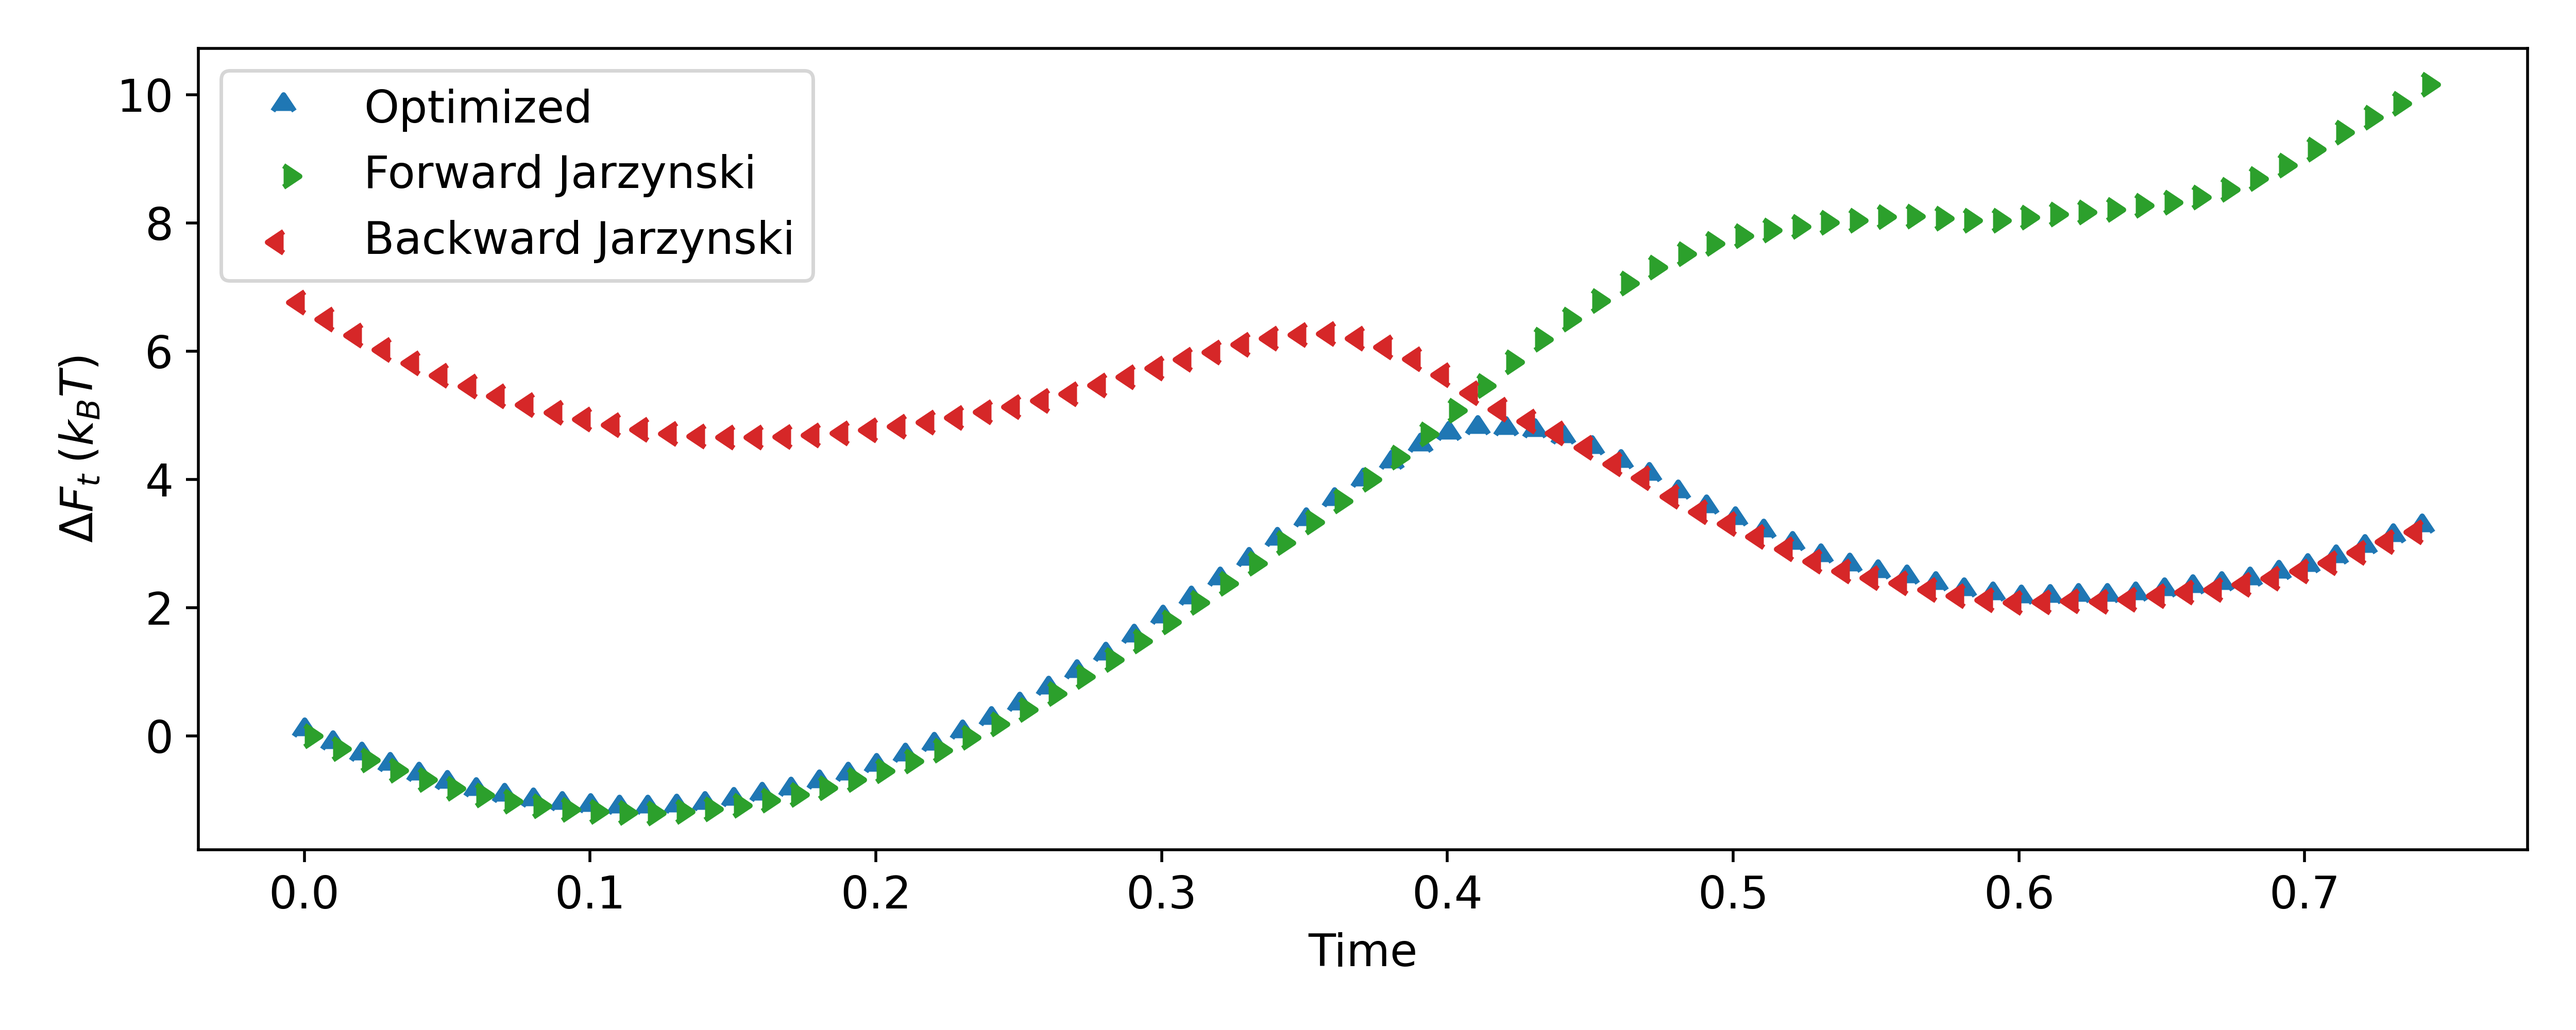
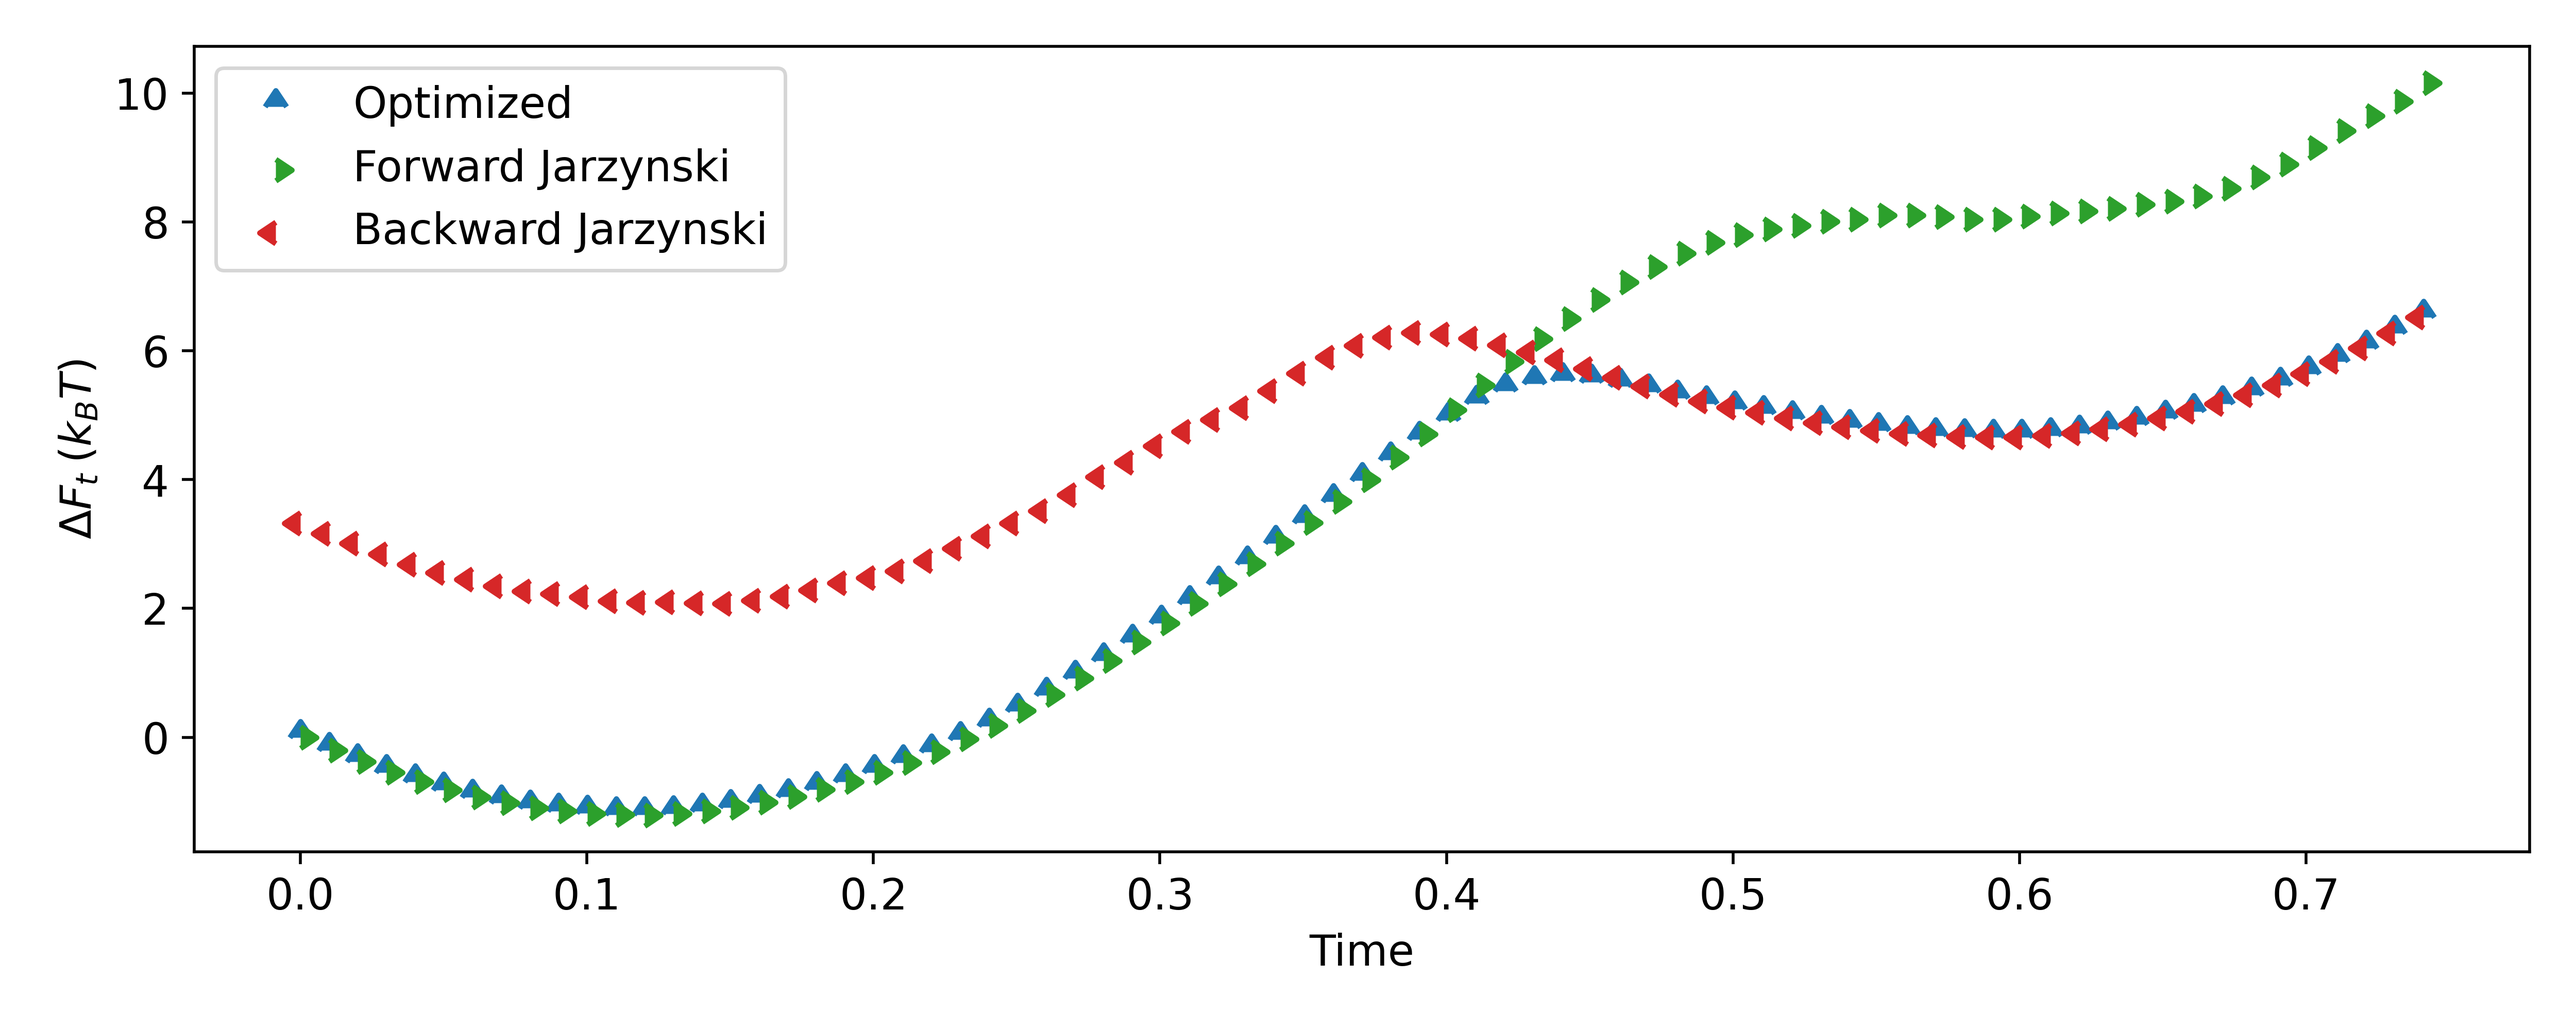
Code update for Figure1 and Figure2
Plot of Hamiltonian evolution
Analysis code correction for the correct computation of ΔF(t) and PMF(z)

diff --git a/analysis.py b/analysis.py
@@ -2,13 +2,14 @@ import numpy as np
 import matplotlib.pyplot as plt
 import os
 from scipy.optimize import newton
-plt.rcParams.update({'font.size': 12.5})
+from tqdm import tqdm
+plt.rcParams.update({'font.size': 12})
 
 folder = 'res/working/'
 ext = '.dat'
 show = False
-do_computation_PMF = False
-save_pics = False
+do_computation_PMF = True
+save_pics = True
 beta = 1.
 N = 500
 n_F = n_R = N
@@ -34,21 +35,21 @@ def Bidirectional_Method(ΔF, W_F_t, W_B_t, W_F, W_B):
     return -np.log(np.mean(np.exp(-W_F_t)/(1.+np.exp(-(W_F-ΔF)))) + np.mean(np.exp(-(W_B_t+ΔF))/(1.+np.exp(-(W_B+ΔF)))))
 
 W_f = np.loadtxt(folder + 'FORWARD_' + f'Work' + ext)
-W_b = np.loadtxt(folder + 'BACKWARD_' + f'Work' + ext)
+W_b = np.loadtxt(folder + 'BACKWARD_' + f'Work' + ext)[::-1]
 
-Work = (np.mean(W_f[-1, :]) + np.mean(W_b[-1, :]))/2
+Work = (np.mean(W_f[-1, :]) + np.mean(W_b[0, :]))/2
 print(f'Work = {Work}')
 
 print(f'Var W_f = {np.var(W_f[-1, :])}\nmean = {np.mean(W_f[-1, :])}\nmean(exp) = {np.mean(np.exp(-W_f[-1, :]))}')
-print(f'Var W_b = {np.var(W_b[-1, :])}\nmean = {np.mean(W_b[-1, :])},\nmean(exp) = {np.mean(np.exp(-W_b[-1, :]))}')
+print(f'Var W_b = {np.var(W_b[0, :])}\nmean = {np.mean(W_b[0, :])},\nmean(exp) = {np.mean(np.exp(-W_b[0, :]))}')
 
 tot_work_F = W_f[-1, :]
-tot_work_B = W_b[-1, :]
+tot_work_B = W_b[0, :]
 
 ΔF = newton(f, x0=5, args=(tot_work_F, tot_work_B), maxiter=1000)
 print(f'At time τ: BAR method outputs ΔF = {ΔF}')
 
-Delta_F_t = np.array([Bidirectional_Method(ΔF, W_f[t, :], W_b[t, :], tot_work_F.mean(), tot_work_B.mean()) for t in range(tot_records)])
+Delta_F_t = np.array([Bidirectional_Method(ΔF, W_f[t, :], W_b[t, :], tot_work_F, tot_work_B) for t in range(tot_records)])
 
 if show:
     nf, bins_f = np.histogram(tot_work_F, density=True, bins=30)
@@ -70,8 +71,11 @@ if show:
     plt.show()
 
 Jarz_eq_f = -np.log(np.mean(np.exp(-W_f), axis=1))
-Jarz_eq_b = -np.log(np.mean(np.exp(-W_b), axis=1)) + ΔF                                                                                                                                                                                                                                                                                                                                                                                                                                                                                                                                                   
+Jarz_eq_b = -np.log(np.mean(np.exp(-W_b), axis=1)) + ΔF
 
+#####################
+### Plot FIGURE 1 ###
+#####################
 
 time_steps = 10
 plt.figure(figsize=(10, 4))
@@ -87,7 +91,8 @@ plt.ylabel(r'$\Delta F_t\: (k_B T)$')
 plt.tight_layout()
 if save_pics:
     plt.savefig('imgs/Figure1.png', dpi=500, transparent=True)
-plt.show()
+    print('Figure1.png saved!')
+plt.show(block=False)
 
 
 
@@ -104,6 +109,7 @@ def V_t(z, z_t):
 def Hamiltonian(z, z_t):
     return H0(z) + V_t(z, z_t)
 
+W_b = W_b[::-1] # reset sorting
 
 z_t_forw = np.linspace(-1.5, 1.5, tot_records)#.tolist() + [1.5]
 z_t_back = np.linspace(1.5, -1.5, tot_records)#.tolist() + [-1.5]
@@ -112,7 +118,7 @@ rho0_f = np.zeros(z_t_forw.shape)
 rho0_b = np.zeros(z_t_back.shape)
 
 data_f = np.loadtxt(folder + 'FORWARD_data.dat')[1:, :]
-data_b = np.loadtxt(folder + 'BACKWARD_data.dat')[1:, :]
+data_b = np.loadtxt(folder + 'BACKWARD_data.dat')[1:, :][::-1, :]
 
 average_W_f = np.mean(W_f, axis=1)
 average_W_b = np.mean(W_b, axis=1)
@@ -127,33 +133,38 @@ pmf_b = np.zeros(num_bins)
 pmf_good = np.zeros(num_bins)
 delta = (lambda_max - lambda_min) / num_bins
 
+
 if not os.path.exists(folder + 'PMF_F.dat') or do_computation_PMF:
 
-    for i in range(num_bins):
+    for i in tqdm(range(num_bins), colour='green'):
         lambda_i = lambda_bins[i]
         # lambda_i_b = lambda_bins[num_bins-1-i]
         num, num_b, num_good_F, num_good_B = 0, 0, 0, 0
         den, den_b, den_good = 0, 0, 0
         for tt in range(tot_records):
             nf, bins_f = np.histogram(data_f[tt, :], density=True)
+            # _, n_workf = np.histogram(W_f[tt, :], density=True)
             real_bins_f = (bins_f[:-1]+bins_f[1:])/2
             mask_f = np.logical_and(real_bins_f >= lambda_i - delta/2, real_bins_f < lambda_i + delta/2)
             distrib_f = nf[mask_f]
-            
+            # work_f = ((n_workf[:-1]+n_workf[1:])/2)[mask_f]
+
             if sum(mask_f) > 0:
-                num += distrib_f*np.exp(-average_W_f[tt]) * np.exp(Jarz_eq_f[tt])
-                num_good_F += (distrib_f*np.exp(-average_W_f[tt])/(1.+np.exp(ΔF-average_W_f[-1])))*np.exp(Delta_F_t[tt])
+                num += np.mean(distrib_f*np.exp(-W_f[tt])) * np.exp(Jarz_eq_f[tt])
+                num_good_F += np.mean(distrib_f*np.exp(-W_f[tt])/(1.+np.exp(ΔF-W_f[-1])))*np.exp(Delta_F_t[tt])
             den += np.exp(Jarz_eq_f[tt] - V_t(lambda_i, z_t_forw[tt]))
-                
+
             nb, bins_b = np.histogram(data_b[tt, :], density=True)
+            # _, n_workb = np.histogram(W_b[tt, :], density=True)
             real_bins_b = (bins_b[:-1]+bins_b[1:])/2
             mask_b = np.logical_and(real_bins_b >= lambda_i - delta/2, real_bins_b < lambda_i + delta/2)
             distrib_b = nb[mask_b]
+            # work_b = ((n_workb[:-1]+n_workb[1:])/2)[mask_b]
 
             if sum(mask_b) > 0:
-                num_b += distrib_b*np.exp(-average_W_b[tt]-average_W_b[-1]) * np.exp(Jarz_eq_b[tt])
-                num_good_B += (distrib_b*np.exp(-average_W_b[tt]+average_W_b[-1])/(1.+np.exp((ΔF+average_W_b[-1]))))*np.exp(Delta_F_t[tt])
-            den_b += np.exp(Jarz_eq_b[tt] - V_t(lambda_i, z_t_back[tt]))
+                num_b += np.mean(distrib_b*np.exp(-(W_b[tt]))) * np.exp(Jarz_eq_b[tt] - ΔF)
+                num_good_B += np.mean(distrib_b*np.exp(W_b[-1]-W_b[::-1, :][tt])/(1.+np.exp((ΔF+W_b[-1]))))*np.exp(Delta_F_t[tt])
+            den_b += np.exp(Jarz_eq_b[tt] - V_t(lambda_i, z_t_forw[tt]))
 
             den_good += np.exp(Delta_F_t[tt] - V_t(lambda_i, z_t_forw[tt]))
             
@@ -161,18 +172,31 @@ if not os.path.exists(folder + 'PMF_F.dat') or do_computation_PMF:
         pmf_b[i] = -np.log(num_b/den_b)
         pmf_good[i] = -np.log((num_good_F + num_good_B)/den_good)
 
-    PMF_minimum = min(pmf.min(), pmf_good.min())
-
-    np.savetxt(folder + 'PMF_F' + ext, pmf-PMF_minimum)
-    np.savetxt(folder + 'PMF_B' + ext, pmf_b-PMF_minimum)
-    np.savetxt(folder + 'PMF_MA' + ext, pmf_good-PMF_minimum)
+    PMF_minimum =  min(pmf.min(), pmf_b.min(), pmf_good.min())
+    print(f'Minimum = {PMF_minimum}')
+    print(f'Minimum PMF_F = {pmf.min()}')
+    print(f'Minimum PMF_B = {pmf_b.min()}')
+    print(f'Minimum PMF_Good= {pmf_good.min()}')
+    pmf = pmf - PMF_minimum # pmf.min()
+    pmf_b = pmf_b - PMF_minimum # pmf_b.min()
+    pmf_good = pmf_good - PMF_minimum # pmf_good.min()
+    
+    np.savetxt(folder + 'PMF_F' + ext, pmf)
+    np.savetxt(folder + 'PMF_B' + ext, pmf_b)
+    np.savetxt(folder + 'PMF_MA' + ext, pmf_good)
     np.savetxt(folder + 'lambda_bins' + ext, lambda_bins)
 
 else:
+
     pmf = np.loadtxt(folder + 'PMF_F' + ext)
     pmf_b = np.loadtxt(folder + 'PMF_B' + ext)
     pmf_good = np.loadtxt(folder + 'PMF_MA' + ext)
     lambda_bins = np.loadtxt(folder + 'lambda_bins' + ext)
+
+
+#####################
+### Plot FIGURE 2 ###
+#####################
 
 fig, ax = plt.subplots(1, 2, figsize=(10, 4))
 ts = 2
@@ -180,13 +204,19 @@ ax[0].scatter(lambda_bins[::ts], (pmf)[::ts], color='tab:green',
             marker=9, label='Forward: Unidirectional')
 ax[0].scatter(lambda_bins[::-ts], (pmf_b)[::ts], color='tab:red', 
             marker=8, label='Backward: Unidirectional')
+# ax[0].scatter(lambda_bins[::ts], (pmf_good)[::ts], color='tab:blue', 
+#             marker=10, label='Optimized: Bidirectional')
+
 ax[1].scatter(lambda_bins[::ts], (pmf_good)[::ts], color='tab:blue', 
             marker=10, label='Optimized: Bidirectional')
-ax[1].plot(lambda_bins[np.logical_and(lambda_bins > -1, lambda_bins <= 1.01)][::ts], 
-           V_t(lambda_bins, 0)[np.logical_and(lambda_bins > -1, lambda_bins <= 1.01)][::ts]+pmf_good[np.where(lambda_bins>0)[0][0]], 
+xx = np.linspace(-1, 1, 101)
+ax[1].plot(xx[::ts], V_t(xx[::ts], 0)+pmf_good[np.where(lambda_bins>0)[0][0]], 
            ls='--', color='orange')
 ax[0].set_ylabel(r'$PMF\: (k_B T)$')
 y_lims = ax[0].get_ylim()
+# print(y_lims)
+y_lims = (y_lims[0], max(20, y_lims[1]))
+ax[0].set_ylim(y_lims)
 ax[1].set_yticks([])
 ax[1].set_ylim(*y_lims)
 ax[0].legend()
@@ -196,4 +226,5 @@ plt.subplots_adjust(wspace=0.02, bottom=0.15)
 fig.text(0.5+0.01, 0.04, 'Position', ha='center', va='center', transform=fig.transFigure)
 if save_pics:
     plt.savefig('imgs/Figure2.png', dpi=500, transparent=True)
+    print('Figure2.png saved!')
 plt.show()

diff --git a/hamiltonians.py b/hamiltonians.py
@@ -1,0 +1,53 @@
+import numpy as np
+import matplotlib.pyplot as plt
+from PIL import Image
+from tqdm import tqdm
+import os
+plt.rcParams.update({'font.size': 12.5})
+
+saved_imgs_folder = 'imgs/gif/'
+
+def H0(z):
+    return 5*z**4 - 10*z**2 +3*z
+
+def Vt(z, z_t):
+    return 15/2*(z-z_t)**2
+
+def H(z, z_t):
+    return H0(z) + Vt(z, z_t)
+
+z_t = np.array(np.linspace(-1.5, 1.5, 750).tolist() + [1.5])
+zz = np.linspace(-1.5, 1.5, 500)
+
+if len(os.listdir(saved_imgs_folder)) == 0:
+    for tt in tqdm(range(len(z_t)+1)):
+        plt.plot(zz, list(map(H0, zz)), label=r'$H_0$', 
+                color='royalblue', ls=':')
+        plt.plot(zz, list(map(Vt, zz, np.zeros_like(zz))), 
+                label=r'$V_t$', color='darkorange', ls='--')
+        
+        if tt != 0:
+            plt.plot(zz, H(zz, z_t[tt-1]), label=r'$H_t$', color='limegreen')
+        
+        plt.ylim(-10, 15)
+        plt.grid(ls='--', alpha=0.5)
+        plt.legend()
+        plt.savefig(f'imgs/gif/Hamiltonian{tt}.png', dpi=150)
+        
+        plt.close()
+
+
+def make_gif(frame_folder, name='imgs/Hamiltonian.gif', jumps=8):
+    tot_range = len(os.listdir(frame_folder))
+    key_name, ext = os.listdir(frame_folder)[0].split('0')
+    images = [f'{frame_folder}{key_name}{ii}{ext}' for ii in range(tot_range)]
+    frames = [Image.open(image) for image in images][::jumps]
+    frames = frames + frames[::-1]
+    frame_one = frames[0]
+    frame_one.save(name, format="GIF", append_images=frames,
+                   save_all=True, duration=1e-3, loop=0)
+
+
+make_gif(saved_imgs_folder)
+for image in os.listdir(saved_imgs_folder):
+    os.remove(f'{saved_imgs_folder}{image}')
